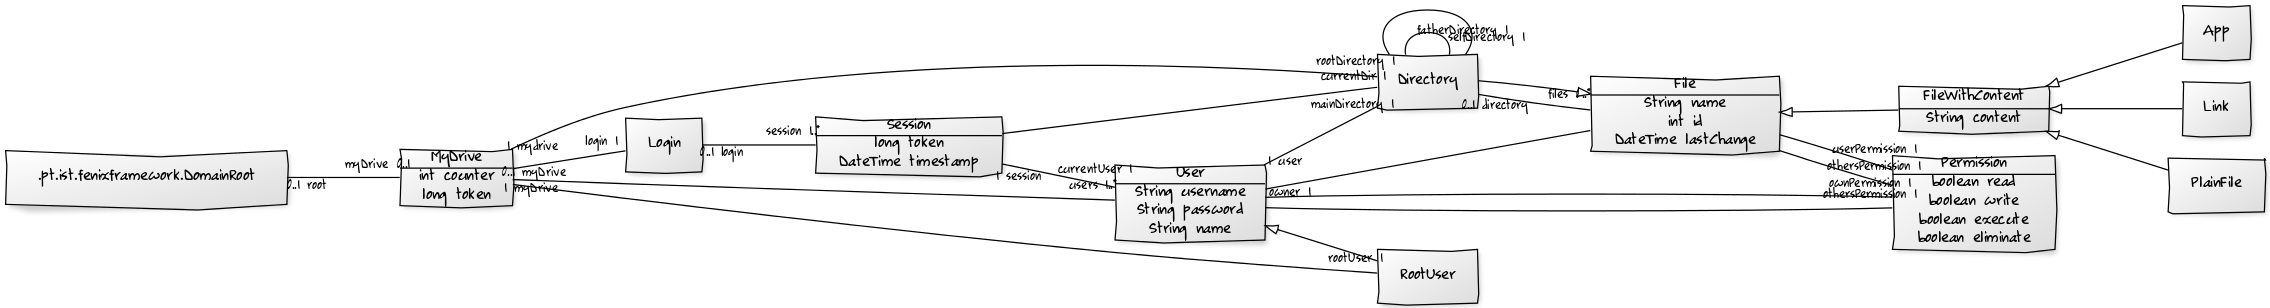
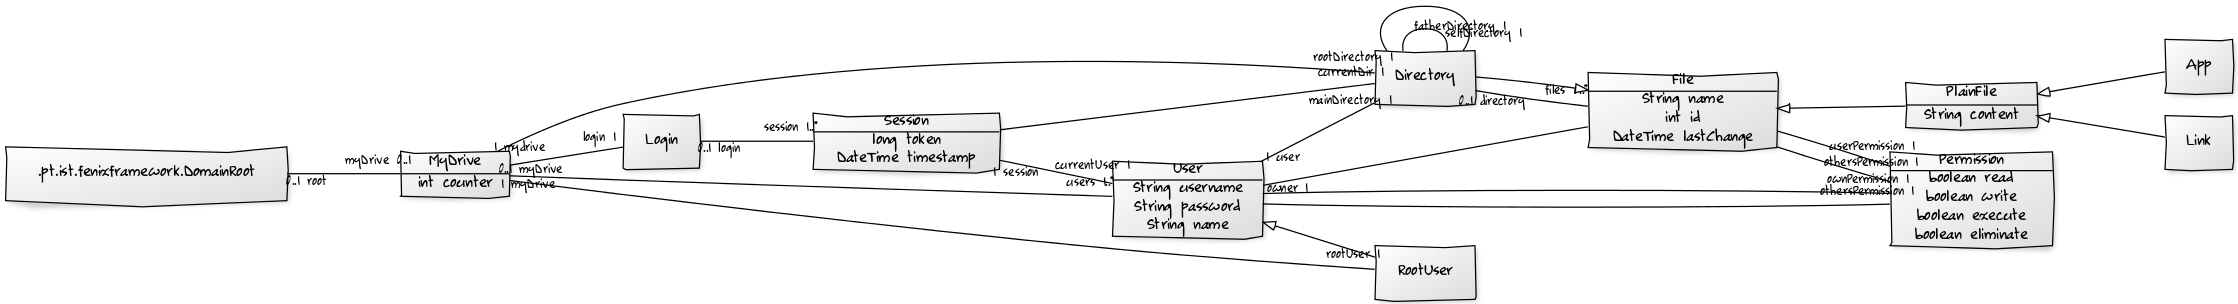
alteracoes dml, mydrive e visitors para nova hierarquia de ficheiros

diff --git a/src/main/java/pt/tecnico/mydrive/domain/MyDrive.java b/src/main/java/pt/tecnico/mydrive/domain/MyDrive.java
@@ -224,7 +224,7 @@ public class MyDrive extends MyDrive_Base {
         Directory current = getCurrentDir(token);
         File file = current.get(filename);
         writeable(file);
-        FileWithContent f = (FileWithContent)file;
+        PlainFile f = (PlainFile)file;
         //checkpermissions    
         f.writeContent(content);
     }

diff --git a/src/main/java/pt/tecnico/mydrive/domain/PlainFile.java b/src/main/java/pt/tecnico/mydrive/domain/PlainFile.java
@@ -19,6 +19,7 @@ public class PlainFile extends PlainFile_Base {
         xmlImport(plain_element, user, father);
     }
 
+    public PlainFile() {};
     //Enables inheritance
     protected void init(String name, int id, User owner, String content, Directory father){
     	init(name,id,owner, father);

diff --git a/src/main/java/pt/tecnico/mydrive/domain/CdableVisitor.java b/src/main/java/pt/tecnico/mydrive/domain/CdableVisitor.java
@@ -9,7 +9,7 @@ public class CdableVisitor implements Visitor {
 	}
 
 	@Override
-	public void execute(FileWithContent f) throws FileNotCdAbleException {
+	public void execute(PlainFile f) throws FileNotCdAbleException {
 		throw new FileNotCdAbleException(f.getName());
 	}
 }

diff --git a/src/main/java/pt/tecnico/mydrive/domain/WriteAbleVisitor.java b/src/main/java/pt/tecnico/mydrive/domain/WriteAbleVisitor.java
@@ -5,7 +5,7 @@ import pt.tecnico.mydrive.exception.FileIsNotWriteAbleException;
 public class WriteAbleVisitor implements Visitor {
 
 	@Override
-	public void execute(FileWithContent f) {		
+	public void execute(PlainFile f) {		
 	}
 
 	@Override

diff --git a/src/main/java/pt/tecnico/mydrive/domain/Visitor.java b/src/main/java/pt/tecnico/mydrive/domain/Visitor.java
@@ -2,5 +2,5 @@ package pt.tecnico.mydrive.domain;
 
 public interface Visitor {
 	void execute(Directory d);
-	void execute(FileWithContent f);
+	void execute(PlainFile f);
 }
